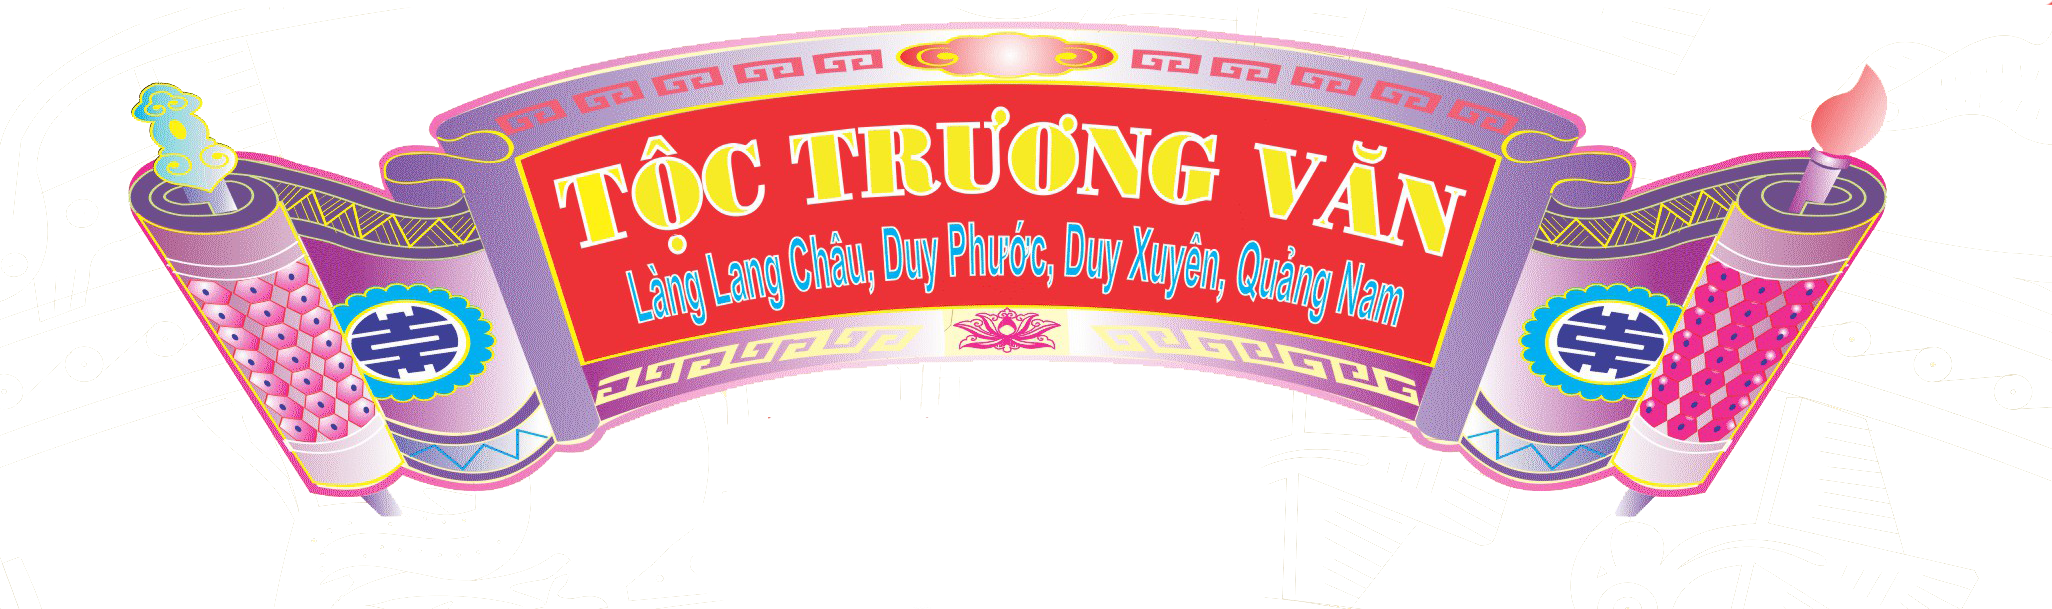
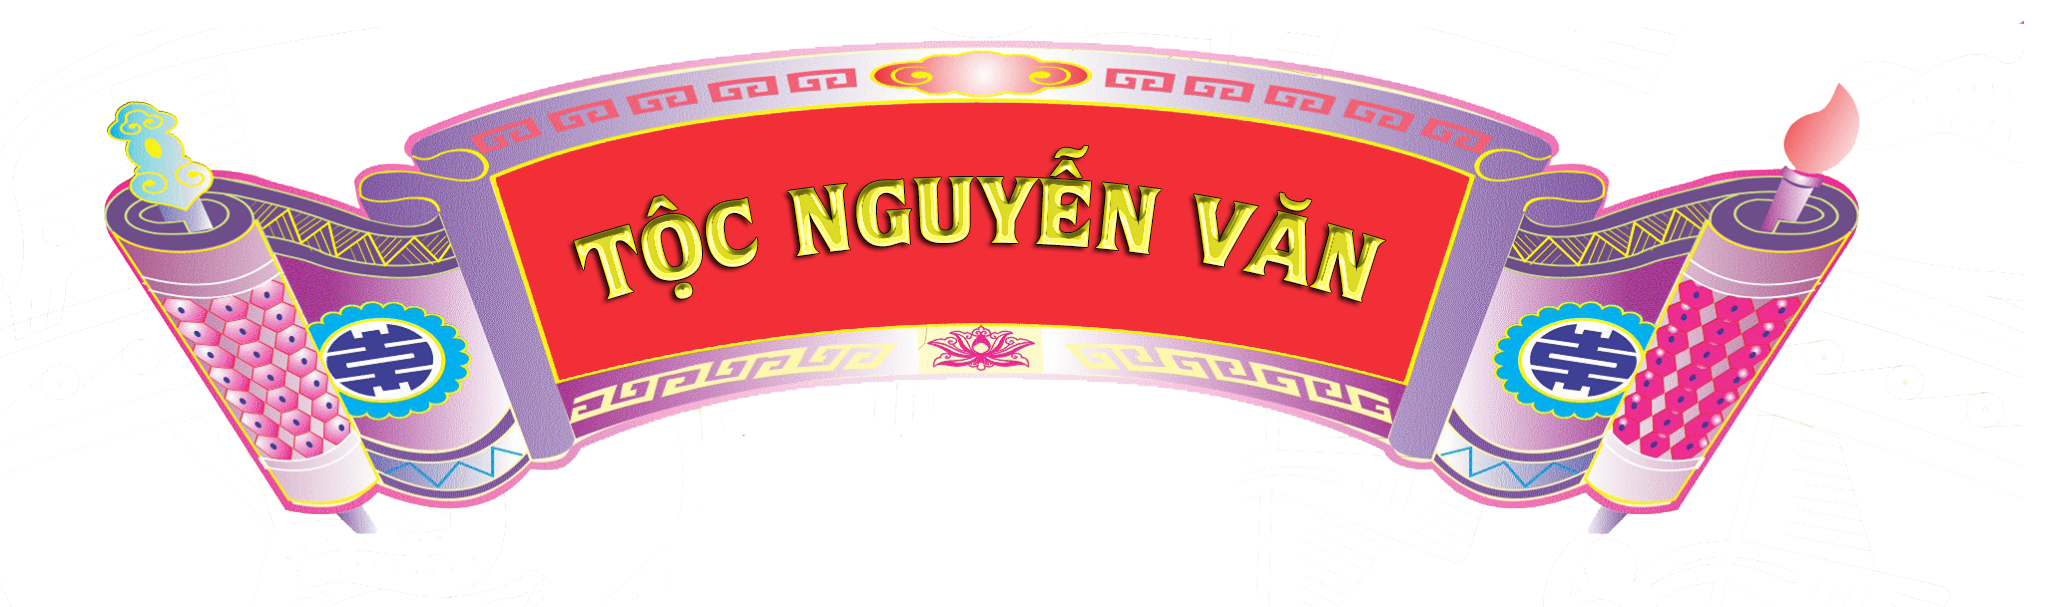
fix ui

diff --git a/resources/views/master.blade.php b/resources/views/master.blade.php
@@ -6,9 +6,8 @@
     <meta http-equiv="X-UA-Compatible" content="IE=edge">
     <meta name="viewport" content="width=device-width, initial-scale=1">
 
-    <link rel="icon" href="{{ asset('/img/1.png')}}" type="image/x-icon" />
-
-   <title>Tộc Trương Văn</title>
+    <link rel="icon" href="{{ asset('/public/img/1.png')}}" type="image/x-icon" />
+   <title>Tộc Nguyễn Văn</title>
 
 
     <!-- Extra plugin css -->

diff --git a/resources/views/layout/header.blade.php b/resources/views/layout/header.blade.php
@@ -8,8 +8,8 @@
 
                     <!-- Nav brand -->
                     <a href="/" class="nav-brand">
-                        <h2>TỘC TRƯƠNG VĂN</h2>
-                        <h3>Làng Lang Châu,Duy Phước,Duy Xuyên,Quảng Nam</h3>
+                        <h2>TỘC NGUYỄN VĂN</h2>
+
                     </a>
 
                     <!-- Navbar Toggler -->
